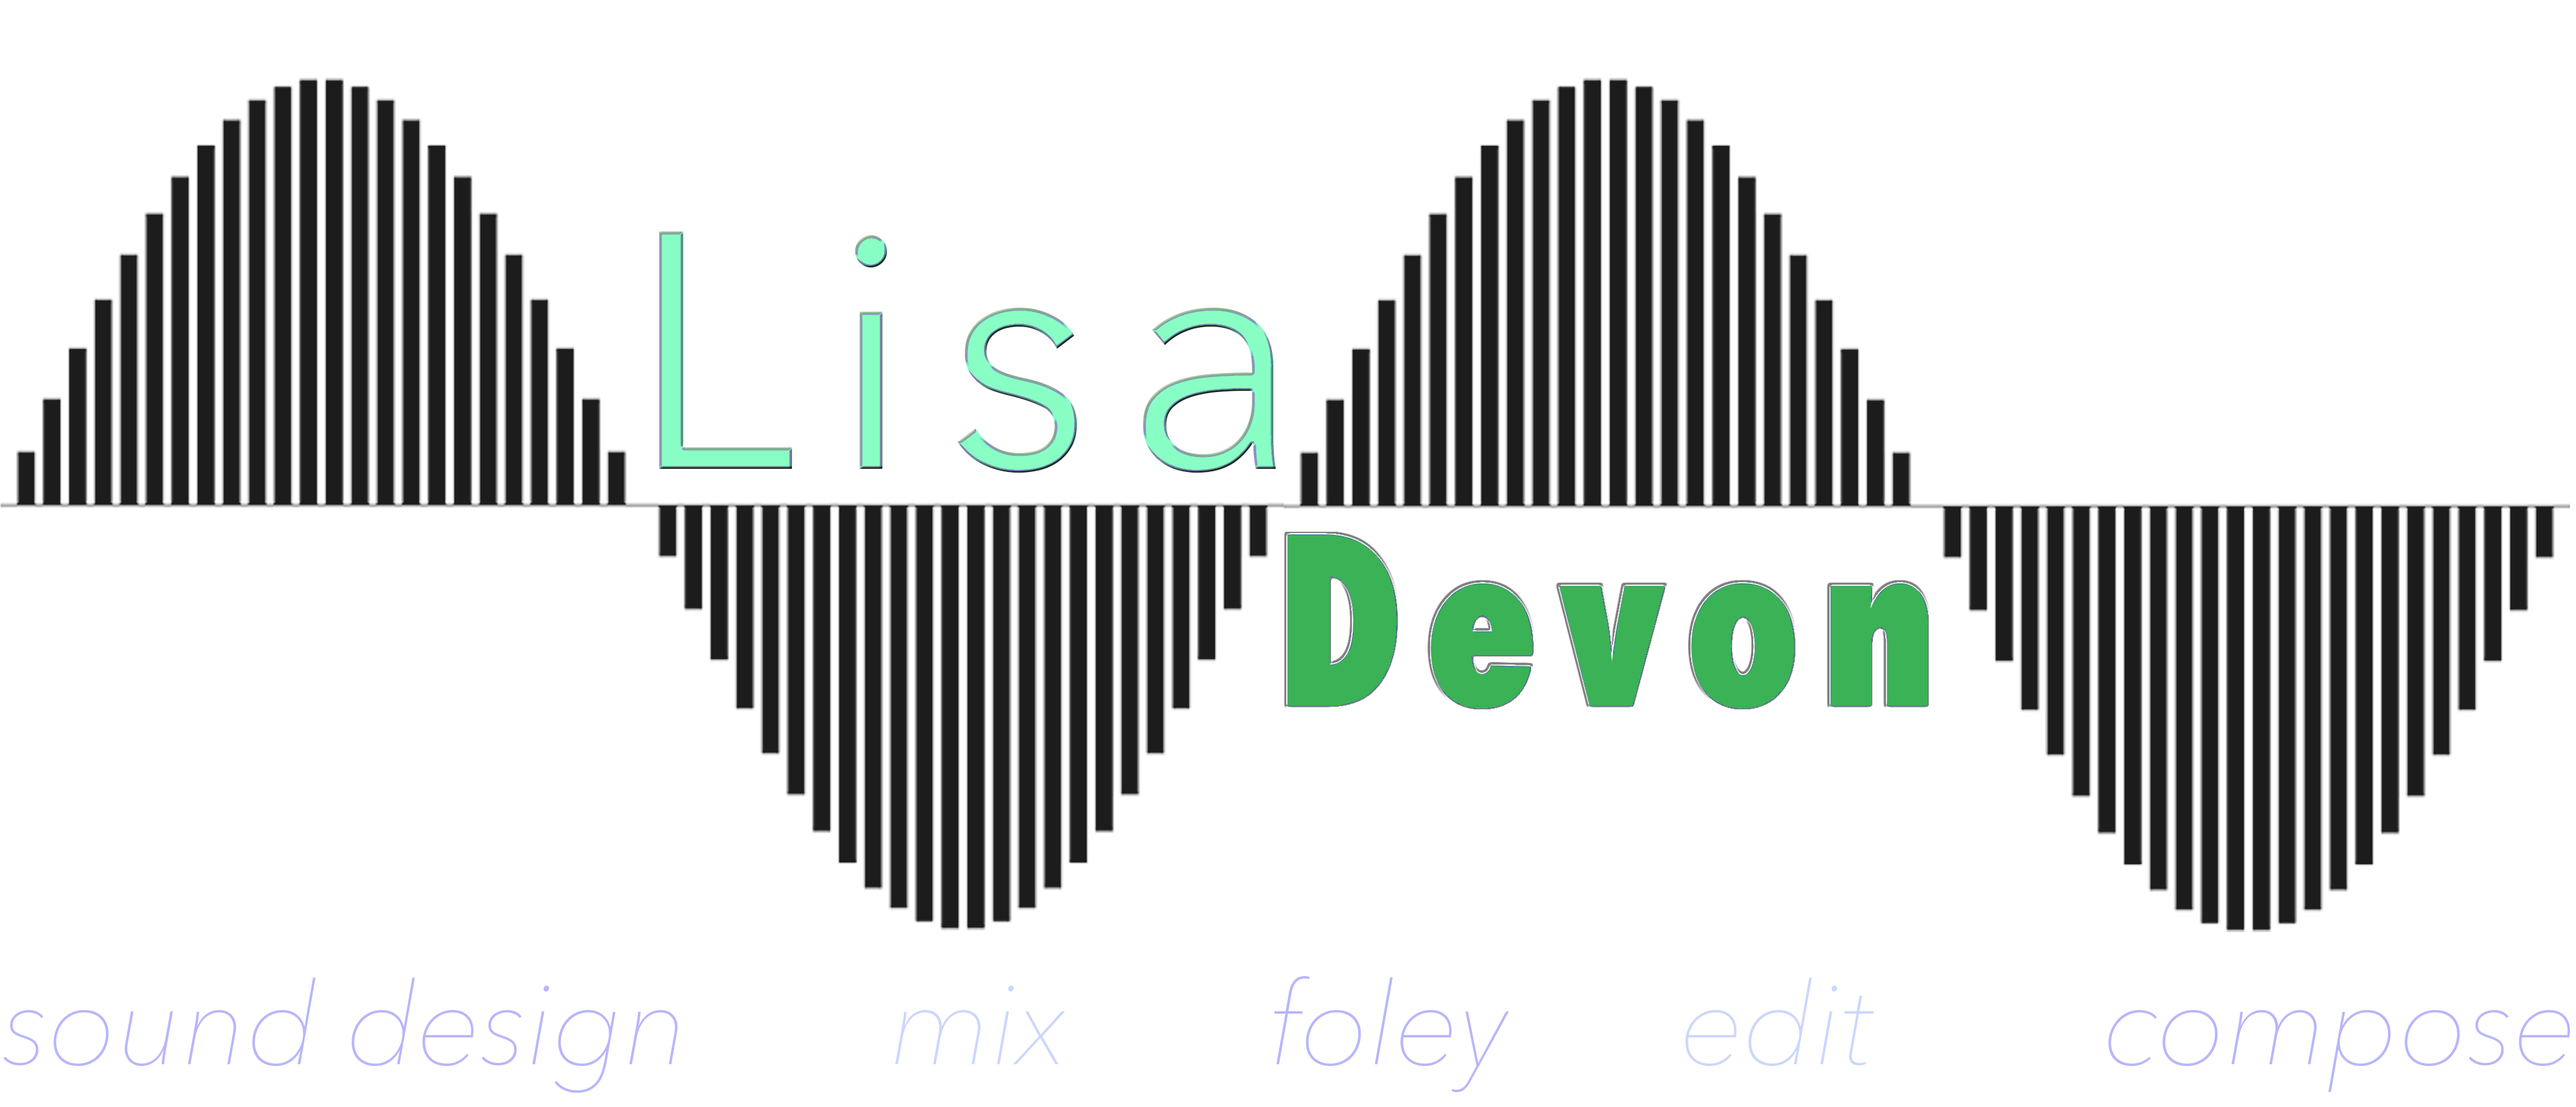
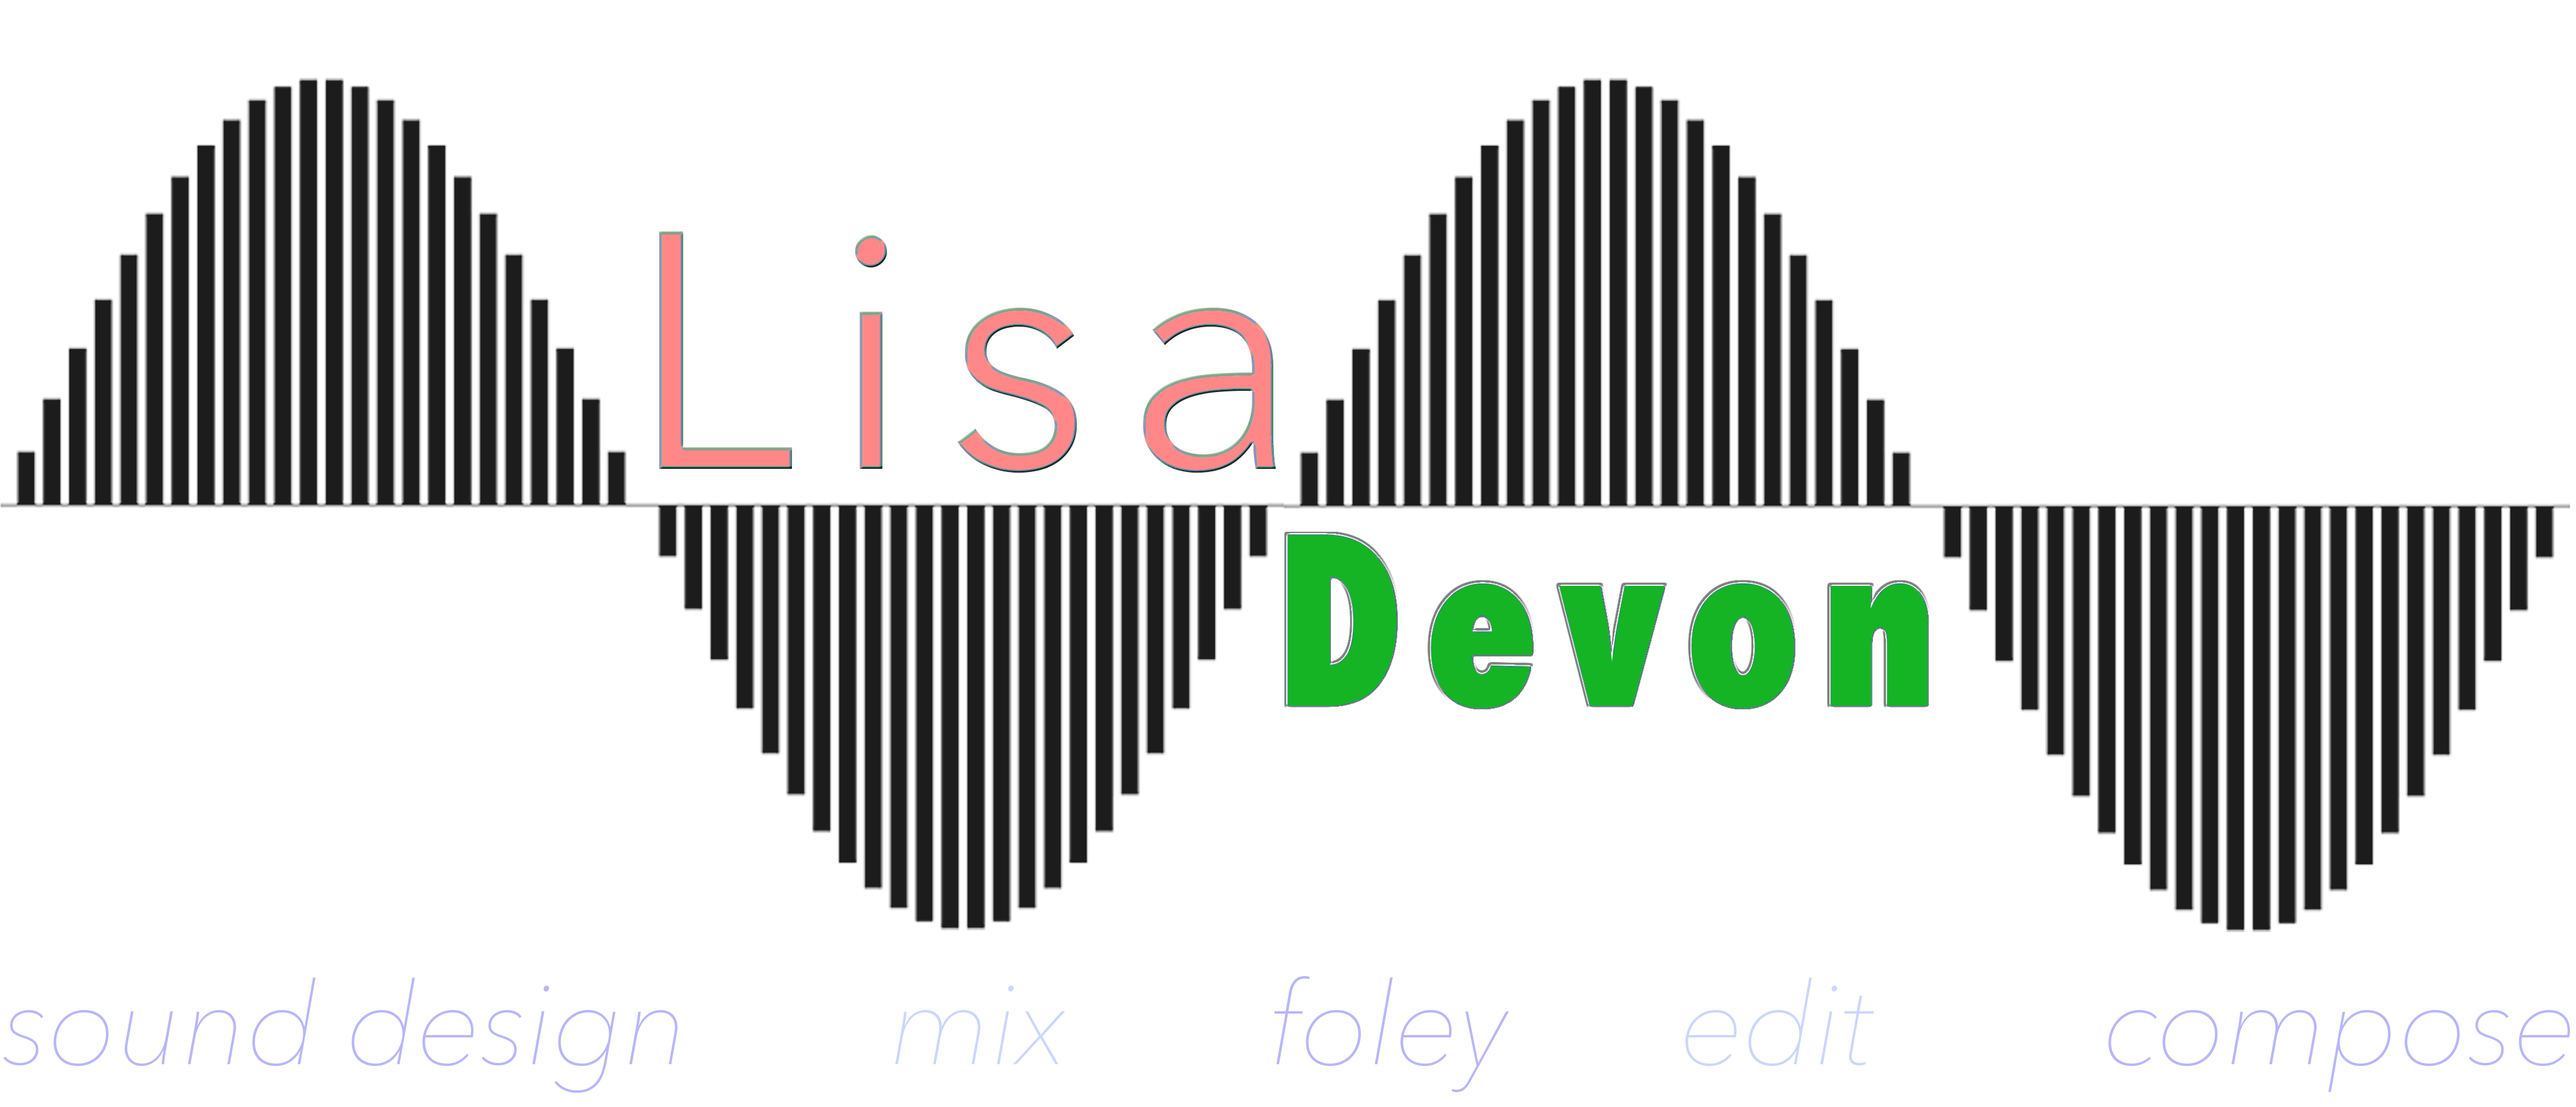
Temp color scheme: blue and purple

diff --git a/app/assets/stylesheets/pages.scss b/app/assets/stylesheets/pages.scss
@@ -18,26 +18,29 @@ $bg-color7: #55D6BE;
 $bg-color8: #093824;
 $bg-color9: #06109e;
 $bg-color10: #939F5C;
-$bg-color11: #ABF4C5;
+$bg-color11: #a6eabe;
 $bg-color12: #379e5b;
 $bg-color13: #136b30;
+$bg-color14: #b1efc6;
 
 
 //pages
 body {
+	border-left: 1px dotted white;
+	border-right: 1px dotted white;
 	color: white;
 	margin: 0;
-	background-color: $bg-color12;
+	background-color: $bg-color5;
 	padding-bottom: 95px;
 }
 
 a {
 	text-decoration: none;
-	color: $color-charcol;
+	color: #ff4e3a;
 }
 	a:visited {
 		text-decoration: none;
-		color: $color-charcol;
+		color: #ff4e3a;
 	}
 	a:hover {
 		color: $bg-color8;
@@ -54,7 +57,7 @@ iframe {
 .titleBanner {
 	text-align: center;
 	padding-bottom: 2%;
-	background-color: $bg-color13;
+	background-color: #0074db;
 }
 	.titleBanner .titleName {
 		// font-size: 3.5rem;
@@ -79,9 +82,9 @@ iframe {
 
 
  .nav {
- 	color: black;
+ 	color: $bg-color14;
  	margin: auto;
-   	background-color: $bg-color11;
+   	background-color: #b8bdf9;
    	padding: 2%;
    	text-align: center;
    	font-size: 1.5rem;
@@ -109,7 +112,7 @@ iframe {
     bottom: 0;
     width: 100%;
     min-height: 80px;
-    background-color: $bg-color8;
+    background-color: #090d84;
 }
 	.site-credit {
 		text-align: center;
@@ -117,7 +120,7 @@ iframe {
 
 	}
 	.site-credit a {
-		color: $bg-color10;
+		color: $bg-color2;
 		font-weight: 200;
 		letter-spacing: 0.3rem;
 		font-size: 0.7rem;
@@ -479,12 +482,13 @@ iframe {
 		font-family: $font-stack2;
 	}
 	.resumeDownloadLink {
-		color: $bg-color11;
+		color: red;
 		letter-spacing: 0.1rem;
 		font-weight: 200;
 	}
 	.resumeDownloadLink:hover {
 		font-weight: 600;
+		color: $bg-color2;
 	}
 
 
